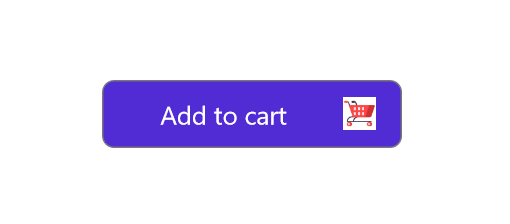
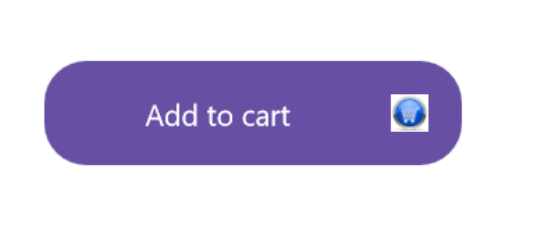
Update buttons changes

diff --git a/MAUI/Button/how-to/Add-the-custom-view-for-button.md b/MAUI/Button/how-to/Add-the-custom-view-for-button.md
@@ -18,18 +18,17 @@ xmlns:busy="clr-namespace:Syncfusion.Maui.Core;assembly=Syncfusion.Maui.Core"
 
 . . .
 
-<ContentPage.Resources>
-        <ResourceDictionary>
-            <DataTemplate x:Key="happyTemplate">
-                <HorizontalStackLayout>
-                    <busy:SfBusyIndicator AnimationType="SingleCircle" IsRunning="True" TextColor="White" WidthRequest="80" HeightRequest="60" IndicatorColor="White" VerticalOptions="Center" HorizontalOptions="End"/>
-                    <Label Text="Loading..." FontSize="20" HorizontalOptions="Start" VerticalOptions="Center" TextColor="White" />
+<ContentPage.Content>
+    <buttons:SfButton  CornerRadius="10"  WidthRequest="120" Text="SfButton" Background="#4125BC">
+        <buttons:SfButton.Content>
+            <DataTemplate>
+                <HorizontalStackLayout Spacing = "8" Padding="5">
+                    <ActivityIndicator Color = "White" IsRunning="True"/>
+                    <Label Text = "Loading..." VerticalOptions="Center" TextColor="White"/>
                 </HorizontalStackLayout>
             </DataTemplate>
-        </ResourceDictionary>
-</ContentPage.Resources>
-<ContentPage.Content>
-    <buttons:SfButton  CornerRadius="20"  WidthRequest="300"   Content="{x:StaticResource happyTemplate}" Text="SfButton"   />
+        </buttons:SfButton.Content>
+    </buttons:SfButton>
 </ContentPage.Content>
 
 {% endhighlight %}
@@ -39,48 +38,44 @@ using Syncfusion.Maui.Core;
 
 . . . 
 
-SfButton button = new SfButton();
-var happyTemplate = new DataTemplate(() =>
+var customTemplate = new DataTemplate(() =>
 {
-// Create the HorizontalStackLayout.
-var stackLayout = new Microsoft.Maui.Controls.StackLayout()
-{
-    Orientation = StackOrientation.Horizontal,
-    VerticalOptions = LayoutOptions.Center
-};
-
-// Create the SfBusyIndicator.
-var busyIndicator = new SfBusyIndicator()
-{
-    AnimationType = AnimationType.SingleCircle,
-    IsRunning = true,
-    TextColor = Colors.White,
-    WidthRequest = 80,
-    HeightRequest = 60,
-    IndicatorColor = Colors.Yellow,
-    VerticalOptions = LayoutOptions.Center,
-    HorizontalOptions = LayoutOptions.End
-};
-
-// Create the Label.
-var label = new Label
-{
-    Text = "Loading...",
-    FontSize = 20,
-    HorizontalOptions = LayoutOptions.Start,
-    VerticalOptions = LayoutOptions.Center,
-    TextColor = Colors.White
-};
-
-// Add the busyIndicator and label to the stackLayout.
-stackLayout.Children.Add(busyIndicator);
-stackLayout.Children.Add(label);
-
-// Return the constructed stackLayout as the root of the DataTemplate.
-return stackLayout;
-
+    var activityIndicator = new ActivityIndicator
+    {
+        Color = Colors.White,
+        IsRunning = true,
+    };
+    var label = new Label
+    {
+        Text = "Loading...",
+        TextColor = Colors.White,
+        VerticalOptions = LayoutOptions.Center
+    };
+    var stackLayout = new HorizontalStackLayout
+    {
+        Spacing = 8,
+        Padding = new Thickness(5)
+    };
+    stackLayout.Children.Add(activityIndicator);
+    stackLayout.Children.Add(label);
+    return stackLayout;
 });
-button.Content = happyTemplate;
+SfButton button = new SfButton
+{
+    Text = "SfButton",
+    WidthRequest = 120,
+    HeightRequest = 50,
+    Background = Color.FromArgb("#4125BC"),
+    CornerRadius= 10,
+    Content = customTemplate
+};
+
+Content = new VerticalStackLayout
+{
+    Children = { button },
+};
+
+
 {% endhighlight %}
 {% endtabs %}
 
